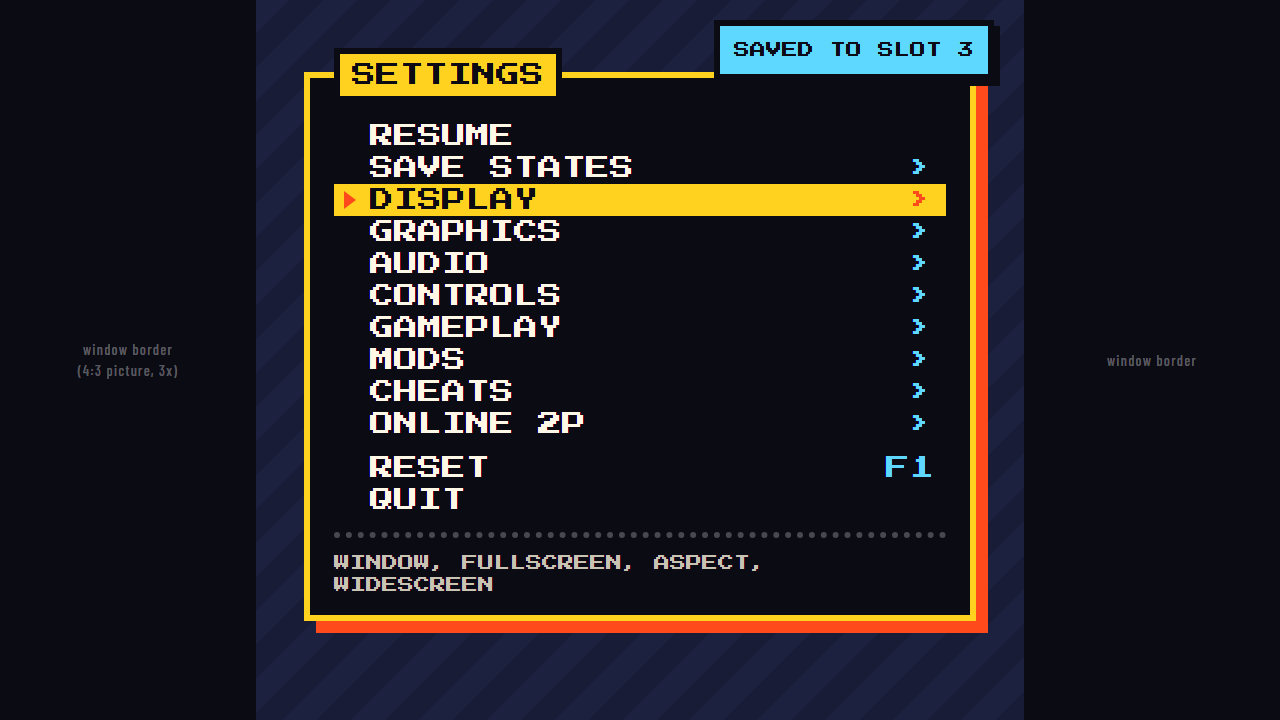
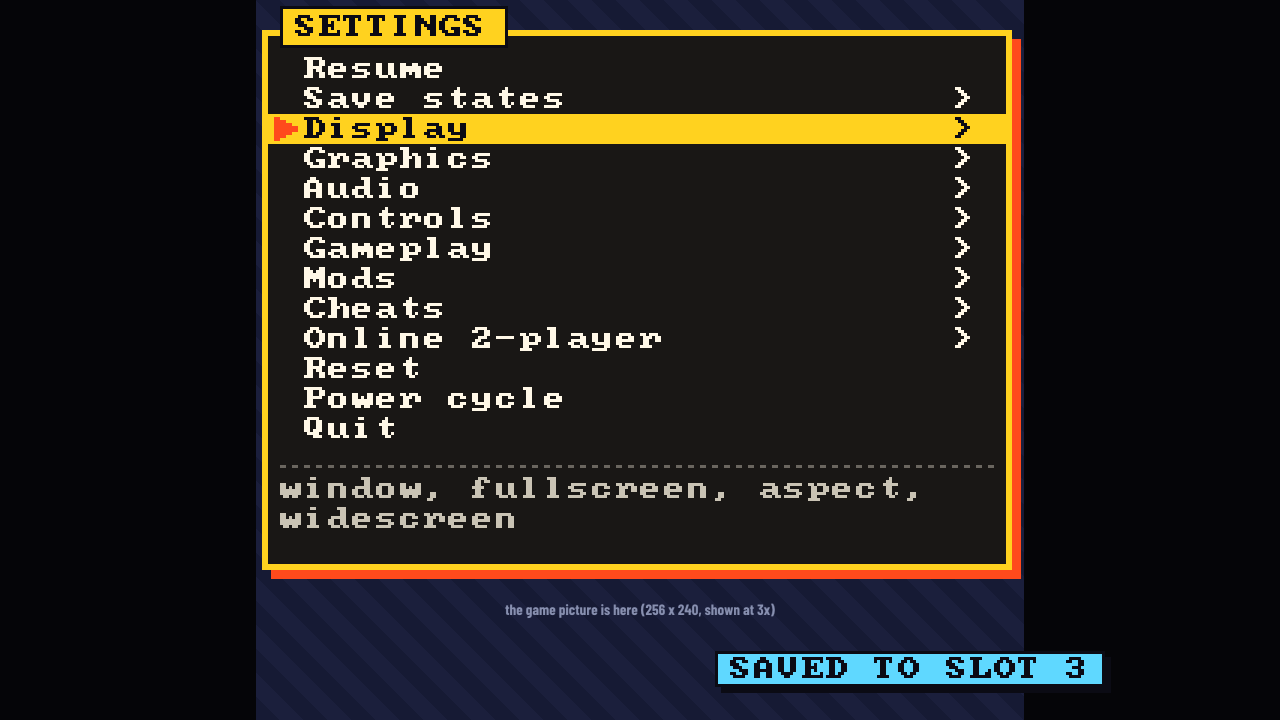
M11: in-game menu in the launcher's look (ink panel, yellow border and title tab, red shadow and pointer, cyan status stickers) on both renderers; --ui-shot in-game

Changed region(s): [[0.1875, 0.0, 0.875, 0.9778], [0.0625, 0.4583, 0.1562, 0.5194], [0.875, 0.4889, 0.9375, 0.5194]]

diff --git a/src/platform/video.c b/src/platform/video.c
@@ -80,10 +80,90 @@ static void ensure_big(Video *v, int k)
     v->big_scale = v->big ? k : 0;
 }
 
-/* GPU path: the chain draws the picture; text goes through an RGBA overlay at twice the NES resolution. */
-static void present_gpu(Video *v, const uint32_t *pixels, const char *const *text, int text_lines)
+/* ---- text overlay in the launcher's look (docs/LAUNCHER_STYLE.md), in NES pixels, 8x8 debug font ---- */
+enum { TEXT_TOAST, TEXT_MENU };
+static void fill(SDL_Renderer *r, float x, float y, float w, float h, Uint8 cr, Uint8 cg, Uint8 cb, Uint8 ca)
 {
-    int ww, wh, i, keep = v->filter;
+    SDL_FRect f = {x, y, w, h};
+    SDL_SetRenderDrawColor(r, cr, cg, cb, ca);
+    SDL_RenderFillRect(r, &f);
+}
+#define INK 0x0b, 0x0b, 0x14
+#define PAPER 0xff, 0xf8, 0xe7
+#define YELLOW 0xff, 0xd2, 0x1f
+#define RED 0xff, 0x4a, 0x1c
+#define CYAN 0x5f, 0xd8, 0xff
+#define GREY 0xc9, 0xc3, 0xb4
+
+static void draw_overlay(SDL_Renderer *r, float x0, float y0, const char *const *text, int n, int style)
+{
+    int i;
+    SDL_SetRenderDrawBlendMode(r, SDL_BLENDMODE_BLEND);
+    if (style == TEXT_TOAST) { /* each line in its own cyan sticker */
+        for (i = 0; i < n; i++) {
+            float w = (float)SDL_strlen(text[i]) * 8 + 8, y = y0 + 4 + (float)i * 14;
+            if (!text[i][0])
+                continue;
+            fill(r, x0 + 5, y + 1, w + 2, 12, INK, 255);        /* offset shadow */
+            fill(r, x0 + 3, y - 1, w + 2, 12, INK, 255);        /* border */
+            fill(r, x0 + 4, y, w, 10, CYAN, 255);
+            SDL_SetRenderDrawColor(r, INK, 255);
+            SDL_RenderDebugText(r, x0 + 8, y + 1, text[i]);
+        }
+        return;
+    }
+    {
+        int help = n; /* help = the lines after the last blank line (index > 1) */
+        float top = y0 + 10, h, y;
+        for (i = n - 1; i > 1; i--)
+            if (!text[i][0]) {
+                help = i + 1;
+                break;
+            }
+        h = (float)(n - 1) * 10 + 10;
+        fill(r, x0 + 5, top + 3, 250, h, RED, 255);       /* red offset shadow */
+        fill(r, x0 + 2, top, 250, h, YELLOW, 255);        /* 2 px yellow border */
+        fill(r, x0 + 4, top + 2, 246, h - 4, INK, 240);   /* ink body */
+        if (n > 0) {                                      /* title tab on the top border */
+            float tw = (float)SDL_strlen(text[0]) * 8 + 8;
+            fill(r, x0 + 8, y0 + 2, tw + 4, 14, INK, 255);
+            fill(r, x0 + 9, y0 + 3, tw + 2, 12, YELLOW, 255);
+            SDL_SetRenderDrawColor(r, INK, 255);
+            SDL_RenderDebugText(r, x0 + 13, y0 + 5, text[0]);
+        }
+        y = top + 9;
+        for (i = 2; i < n; i++, y += 10) {
+            const char *t = text[i];
+            if (i >= help) {
+                if (i == help) { /* dotted rule above the help text */
+                    float dx;
+                    for (dx = x0 + 8; dx < x0 + 246; dx += 4)
+                        fill(r, dx, y - 4, 2, 1, PAPER, 90);
+                }
+                SDL_SetRenderDrawColor(r, GREY, 255);
+                SDL_RenderDebugText(r, x0 + 8, y, t);
+                continue;
+            }
+            if (!t[0])
+                continue;
+            if (t[0] == '>') { /* the selected item: yellow bar, ink text, red pointer */
+                fill(r, x0 + 4, y - 1, 246, 10, YELLOW, 255);
+                fill(r, x0 + 6, y, 2, 8, RED, 255);
+                fill(r, x0 + 8, y + 1, 2, 6, RED, 255);
+                fill(r, x0 + 10, y + 2, 2, 4, RED, 255);
+                fill(r, x0 + 12, y + 3, 2, 2, RED, 255);
+                SDL_SetRenderDrawColor(r, INK, 255);
+            } else
+                SDL_SetRenderDrawColor(r, PAPER, 255);
+            SDL_RenderDebugText(r, x0 + 16, y, t[0] && t[1] ? t + 2 : t);
+        }
+    }
+}
+
+/* GPU path: the chain draws the picture; text goes through an RGBA overlay at twice the NES resolution. */
+static void present_gpu(Video *v, const uint32_t *pixels, const char *const *text, int text_lines, int style)
+{
+    int ww, wh, keep = v->filter;
     SDL_FRect dst;
     SDL_GetWindowSizeInPixels(v->win, &ww, &wh);
     v->filter = v->preset == GPU_PRESET_NEAREST ? FILTER_NEAREST : FILTER_SHARP;
@@ -99,28 +179,21 @@ static void present_gpu(Video *v, const uint32_t *pixels, const char *const *tex
         SDL_SetRenderDrawColor(r, 0, 0, 0, 0);
         SDL_RenderClear(r);
         SDL_SetRenderScale(r, 2, 2);
-        SDL_SetRenderDrawColor(r, 0, 0, 0, 200);
-        {
-            SDL_FRect box = {0, 0, NES_W, (float)(text_lines * 10 + 6)};
-            SDL_RenderFillRect(r, &box);
-        }
-        SDL_SetRenderDrawColor(r, 255, 255, 255, 255);
-        for (i = 0; i < text_lines; i++)
-            SDL_RenderDebugText(r, 4, 4 + i * 10.0f, text[i]);
+        draw_overlay(r, 0, 0, text, text_lines, style);
         SDL_SetRenderScale(r, 1, 1);
         SDL_RenderPresent(r);
     }
     gpu_present(v->gpu, pixels, (GpuPreset)v->preset, dst, text_lines > 0 && v->overlay_ren ? v->overlay : NULL);
 }
 
-void video_present(Video *v, const uint32_t *pixels, const char *const *text, int text_lines)
+static void present(Video *v, const uint32_t *pixels, const char *const *text, int text_lines, int style)
 {
     int ww, wh, i;
     SDL_FRect dst;
     SDL_Texture *src = v->tex;
 
     if (v->gpu) {
-        present_gpu(v, pixels, text, text_lines);
+        present_gpu(v, pixels, text, text_lines, style);
         return;
     }
 
@@ -160,18 +233,25 @@ void video_present(Video *v, const uint32_t *pixels, const char *const *text, in
     if (text_lines > 0) {
         float scale = SDL_max(1.0f, SDL_floorf(dst.h / NES_H));
         SDL_SetRenderScale(v->ren, scale, scale);
-        SDL_SetRenderDrawBlendMode(v->ren, SDL_BLENDMODE_BLEND);
-        SDL_SetRenderDrawColor(v->ren, 0, 0, 0, 200);
-        {
-            SDL_FRect box = {dst.x / scale, dst.y / scale, NES_W, (float)(text_lines * 10 + 6)};
-            SDL_RenderFillRect(v->ren, &box);
-        }
-        SDL_SetRenderDrawColor(v->ren, 255, 255, 255, 255);
-        for (i = 0; i < text_lines; i++)
-            SDL_RenderDebugText(v->ren, dst.x / scale + 4, dst.y / scale + 4 + i * 10.0f, text[i]);
+        draw_overlay(v->ren, dst.x / scale, dst.y / scale, text, text_lines, style);
         SDL_SetRenderScale(v->ren, 1, 1);
     }
     SDL_RenderPresent(v->ren);
+}
+
+void video_draw_overlay(SDL_Renderer *r, float x0, float y0, const char *const *text, int n, int menu)
+{
+    draw_overlay(r, x0, y0, text, n, menu ? TEXT_MENU : TEXT_TOAST);
+}
+
+void video_present(Video *v, const uint32_t *pixels, const char *const *text, int text_lines)
+{
+    present(v, pixels, text, text_lines, TEXT_TOAST);
+}
+
+void video_present_menu(Video *v, const uint32_t *pixels, const char *const *text, int text_lines)
+{
+    present(v, pixels, text, text_lines, TEXT_MENU);
 }
 
 int video_set_width(Video *v, int w)

diff --git a/src/launcher/screens.c b/src/launcher/screens.c
@@ -3,6 +3,7 @@
 #include "mods/mods.h"
 #include "platform/gpu.h"
 #include "platform/video.h"
+#include "platform/menu.h"
 #include <math.h>
 #include <stdio.h>
 #include <stdlib.h>
@@ -27,7 +28,7 @@ static SDL_AtomicInt pending_flag;
 void screens_set_window(SDL_Window *w) { U.win = w; }
 
 static const char *const SCR_NAMES[SCR_COUNT] = {"home", "first-run", "display", "graphics", "audio", "controls",
-                                                 "gameplay", "mods", "online", "builds", "logs", "about"};
+                                                 "gameplay", "mods", "online", "builds", "logs", "about", "in-game"};
 Screen screen_from_name(const char *n)
 {
     int i;
@@ -373,9 +374,9 @@ static void draw_first_run(void)
 
 /* ---------------------------------------------------------------- SETTINGS shell + rows */
 static const char *const PAGE_TITLE[SCR_COUNT] = {"", "", "DISPLAY", "GRAPHICS", "AUDIO", "CONTROLS", "GAMEPLAY", "MODS",
-                                                  "ONLINE PLAY", "BUILDS", "LOGS", "ABOUT"};
+                                                  "ONLINE PLAY", "BUILDS", "LOGS", "ABOUT", ""};
 static const Icon PAGE_ICON[SCR_COUNT] = {ICON_HOME, ICON_HOME, ICON_DISPLAY, ICON_GRAPHICS, ICON_AUDIO, ICON_CONTROLS,
-                                          ICON_GAMEPLAY, ICON_MODS, ICON_ONLINE, ICON_BUILDS, ICON_LOGS, ICON_ABOUT};
+                                          ICON_GAMEPLAY, ICON_MODS, ICON_ONLINE, ICON_BUILDS, ICON_LOGS, ICON_ABOUT, ICON_HOME};
 
 #define PX 330.0f   /* panel content left */
 #define PR 1216.0f  /* panel content right */
@@ -1192,6 +1193,49 @@ static void draw_about(void)
     }
 }
 
+/* ---------------------------------------------------------------- IN-GAME (screenshots only) */
+static void draw_ingame(void)
+{
+    static Menu m;
+    SDL_Renderer *r = kit_renderer();
+    float sx = 1, sy = 1, gx = (KIT_W - 768) / 2.0f, stripe;
+    const char *toast[1] = {"SAVED TO SLOT 3"};
+    int n;
+    kit_rect(0, 0, KIT_W, KIT_H, 0x050508, 1);
+    kit_rect(gx, 0, 768, 720, 0x1b1f3c, 1); /* placeholder for the game picture (never the real one here) */
+    for (stripe = -720; stripe < 768; stripe += 48) {
+        float p[8];
+        p[0] = gx + stripe, p[1] = 0, p[2] = gx + stripe + 24, p[3] = 0;
+        p[4] = gx + stripe + 24 + 720, p[5] = 720, p[6] = gx + stripe + 720, p[7] = 720;
+        kit_quad(p, 0x161a34, 1);
+    }
+    kit_rect(0, 0, gx, KIT_H, 0x050508, 1);
+    kit_rect(gx + 768, 0, gx, KIT_H, 0x050508, 1);
+    kit_text(FONT_LABEL, 18, gx + 384, 600, "the game picture is here (256 x 240, shown at 3x)", 0x8890b0, 1, ALIGN_CENTER);
+    menu_open(&m, 0);
+    menu_begin(&m, "SETTINGS");
+    menu_add(&m, ITEM_ACTION, 1, "Resume", "", "Esc closes this menu");
+    menu_add(&m, ITEM_PAGE, 2, "Save states", "", "");
+    menu_add(&m, ITEM_PAGE, 3, "Display", "", "window, fullscreen, aspect, widescreen");
+    menu_add(&m, ITEM_PAGE, 4, "Graphics", "", "");
+    menu_add(&m, ITEM_PAGE, 5, "Audio", "", "");
+    menu_add(&m, ITEM_PAGE, 6, "Controls", "", "");
+    menu_add(&m, ITEM_PAGE, 7, "Gameplay", "", "");
+    menu_add(&m, ITEM_PAGE, 8, "Mods", "", "");
+    menu_add(&m, ITEM_PAGE, 9, "Cheats", "", "the game's own codes, entered for you");
+    menu_add(&m, ITEM_PAGE, 10, "Online 2-player", "", "play with a friend over the internet");
+    menu_add(&m, ITEM_ACTION, 11, "Reset", "", "F1 in game");
+    menu_add(&m, ITEM_ACTION, 12, "Power cycle", "", "Ctrl+F1 in game");
+    menu_add(&m, ITEM_ACTION, 13, "Quit", "", "settings are saved");
+    m.cursor[0] = 2;
+    n = menu_render(&m);
+    SDL_GetRenderScale(r, &sx, &sy);
+    SDL_SetRenderScale(r, sx * 3, sy * 3);
+    video_draw_overlay(r, gx / 3, 0, m.lines, n, 1);
+    video_draw_overlay(r, gx / 3 + 150, 214, toast, 1, 0);
+    SDL_SetRenderScale(r, sx, sy);
+}
+
 /* ---------------------------------------------------------------- ROM picking */
 static void SDLCALL dialog_cb(void *ud, const char *const *files, int filter)
 {
@@ -1260,6 +1304,7 @@ void screens_draw(App *a, UiIn *in)
         draw_home();
         break;
     case SCR_FIRST_RUN: draw_first_run(); break;
+    case SCR_INGAME: draw_ingame(); break;
     default:
         settings_shell();
         if ((int)a->screen != U.scr) /* page changed in the shell */

diff --git a/src/platform/video.h b/src/platform/video.h
@@ -32,11 +32,17 @@ typedef struct Video {
  * falling back to the SDL renderer. Returns 0 on success. */
 int video_open(Video *v, const char *title, int scale, int aspect, int fullscreen, int filter, int scanlines,
                const char *renderer, int use_gpu, int preset);
-/* Draws the picture (0xFFRRGGBB, 256x240) plus optional text lines at the top-left, then presents. */
+/* Draws the picture (0xFFRRGGBB, 256x240) plus optional text lines at the top-left (status toasts), then presents. */
 void video_present(Video *v, const uint32_t *pixels, const char *const *text, int text_lines);
+/* Same, with the lines laid out as the settings menu from menu_render() (title, blank, items with "> " marking the
+ * selection, blank, help): the launcher's look, docs/LAUNCHER_STYLE.md "In-game menu". */
+void video_present_menu(Video *v, const uint32_t *pixels, const char *const *text, int text_lines);
 /* Picture width for the next frames (256 or a wide picture); -1 if this path cannot (GPU path for now). */
 int video_set_width(Video *v, int w);
 void video_close(Video *v);
+/* The overlay alone, in NES pixels on any renderer (current render scale applies); menu = 1 for menu_render() lines,
+ * 0 for status toasts. The launcher's --ui-shot in-game uses it. */
+void video_draw_overlay(SDL_Renderer *r, float x0, float y0, const char *const *text, int n, int menu);
 int video_filter_from_name(const char *name); /* -1 if unknown */
 
 #endif

diff --git a/src/platform/play_main.c b/src/platform/play_main.c
@@ -1516,7 +1516,7 @@ int main(int argc, char **argv)
                     SDL_UpdateJoysticks();
                 }
                 build_page(&menu, &ctx);
-                video_present(&video, pixels, menu.lines, menu_render(&menu));
+                video_present_menu(&video, pixels, menu.lines, menu_render(&menu));
             } else {
                 video_present(&video, pixels, lines, overlay(&rb, &cfg, paused, lines));
             }

diff --git a/src/launcher/app.h b/src/launcher/app.h
@@ -12,8 +12,9 @@
 typedef enum Screen {
     SCR_HOME, SCR_FIRST_RUN,
     SCR_DISPLAY, SCR_GRAPHICS, SCR_AUDIO, SCR_CONTROLS, SCR_GAMEPLAY, SCR_MODS, SCR_ONLINE, SCR_BUILDS, SCR_LOGS,
-    SCR_ABOUT, SCR_COUNT
+    SCR_ABOUT, SCR_INGAME, SCR_COUNT
 } Screen;
+/* SCR_INGAME is only for --ui-shot: btdd_play's in-game menu as it looks, over a placeholder picture */
 #define SCR_FIRST_SETTINGS SCR_DISPLAY
 #define SCR_LAST_SETTINGS SCR_ABOUT
 

diff --git a/tools/check_all.py b/tools/check_all.py
@@ -301,7 +301,7 @@ def gate_m6(out):
 
 
 LAUNCHER_SCREENS = ['home', 'first-run', 'display', 'graphics', 'audio', 'controls', 'gameplay', 'mods', 'online',
-                    'builds', 'logs', 'about']
+                    'builds', 'logs', 'about', 'in-game']
 
 
 def gate_launcher(build, out):

diff --git a/docs/LAUNCHER_STYLE.md b/docs/LAUNCHER_STYLE.md
@@ -108,14 +108,18 @@ rectangle with contacts, no console shape), sprite pack (generic brush), app ico
 - Idle: PLAY bounce (scale 1.04, -1.5°, 1.6 s), rays turn (80 s), working stamp pulses. Nothing else moves at rest.
 - Reduced motion (system setting or launcher toggle): no idle motion, cross-fades only.
 
-## In-game menu (btdd_play overlay, `src/platform/menu.c`)
-Drawn at NES resolution (256x240) in RGB, scaled with the picture, so it matches at every window size:
-- body `ink`, 2 px `yellow` border, 4 px `red` offset shadow (bottom-right), title tab `yellow` with `ink` text
-  sitting on the top border;
-- items in the 8x8 font, `paper`; values and `›` in `cyan`; selected line = `yellow` bar with `ink` text, `red`
-  value and a `red` triangle at the left;
-- a dotted `paper`-at-25% line above the help text (`grey`); toasts ("SAVED TO SLOT 3") in a `cyan` box, top-right;
+## In-game menu (btdd_play overlay: `video_present_menu`, `src/platform/video.c`)
+Drawn in NES pixels (256x240) over the picture with SDL's 8x8 debug font, scaled with the picture, so it matches at
+every window size and on both renderers (SDL and the GPU preset path). Built from `menu_render()`'s lines:
+- body `ink` (94% opaque), 2 px `yellow` border, 3 px `red` offset shadow; title in a `yellow` tab with an `ink`
+  outline sitting on the top border;
+- items in `paper`; the selected item is a full-width `yellow` bar with `ink` text and a `red` pixel triangle at
+  the left; the help line(s) in `grey` under a dotted `paper` rule;
+- status messages (slot saved, mod toggled, paused) are separate `cyan` stickers with an `ink` border and shadow at
+  the top-left;
 - same page order and names as the launcher's settings; 31 columns (MENU_COLS).
+`PondToPavement --ui-shot in-game out.png` renders it with the real drawing code over a striped placeholder
+(docs/images/launcher-in-game.png); it never shows the game picture.
 
 ## Voice
 Short, loud, friendly; say what happens ("Rebuild", "Copied", "Nothing is sent anywhere"). Comic exclamation only in
